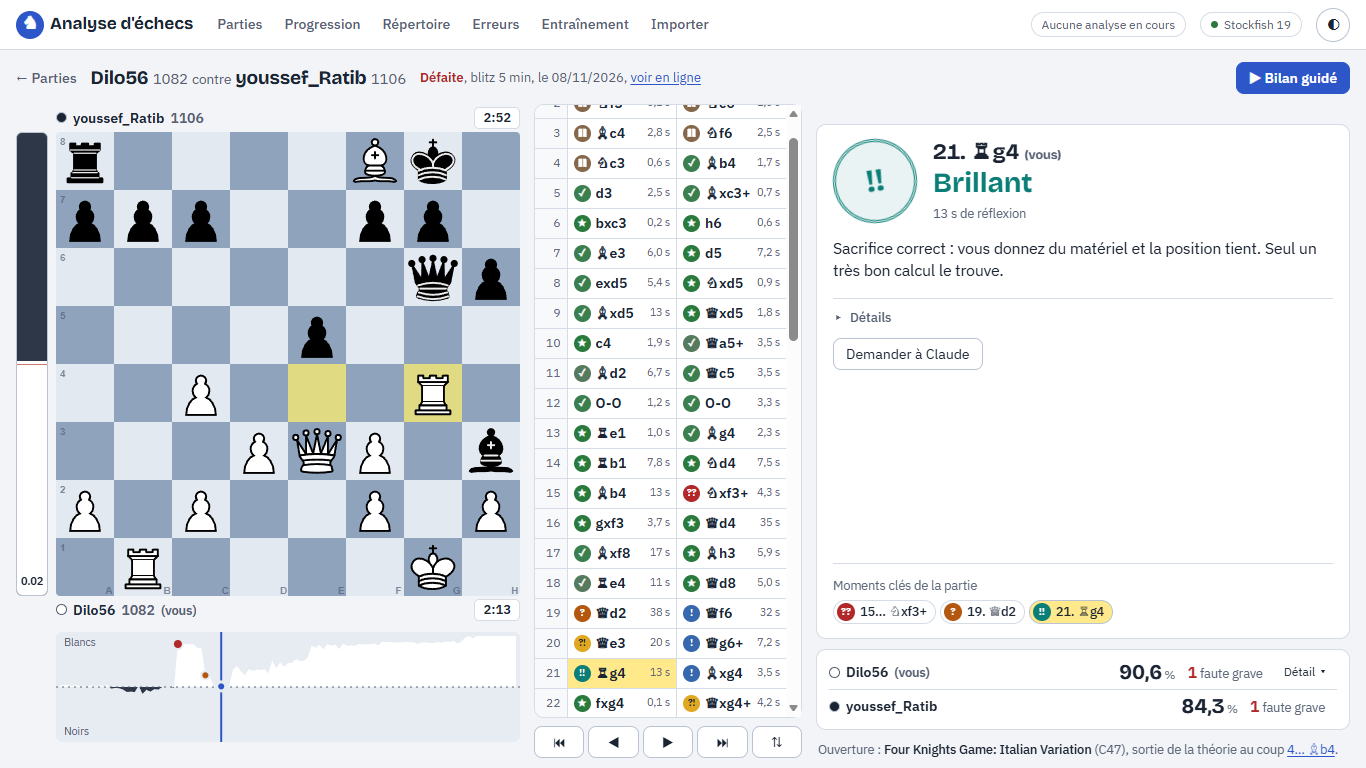
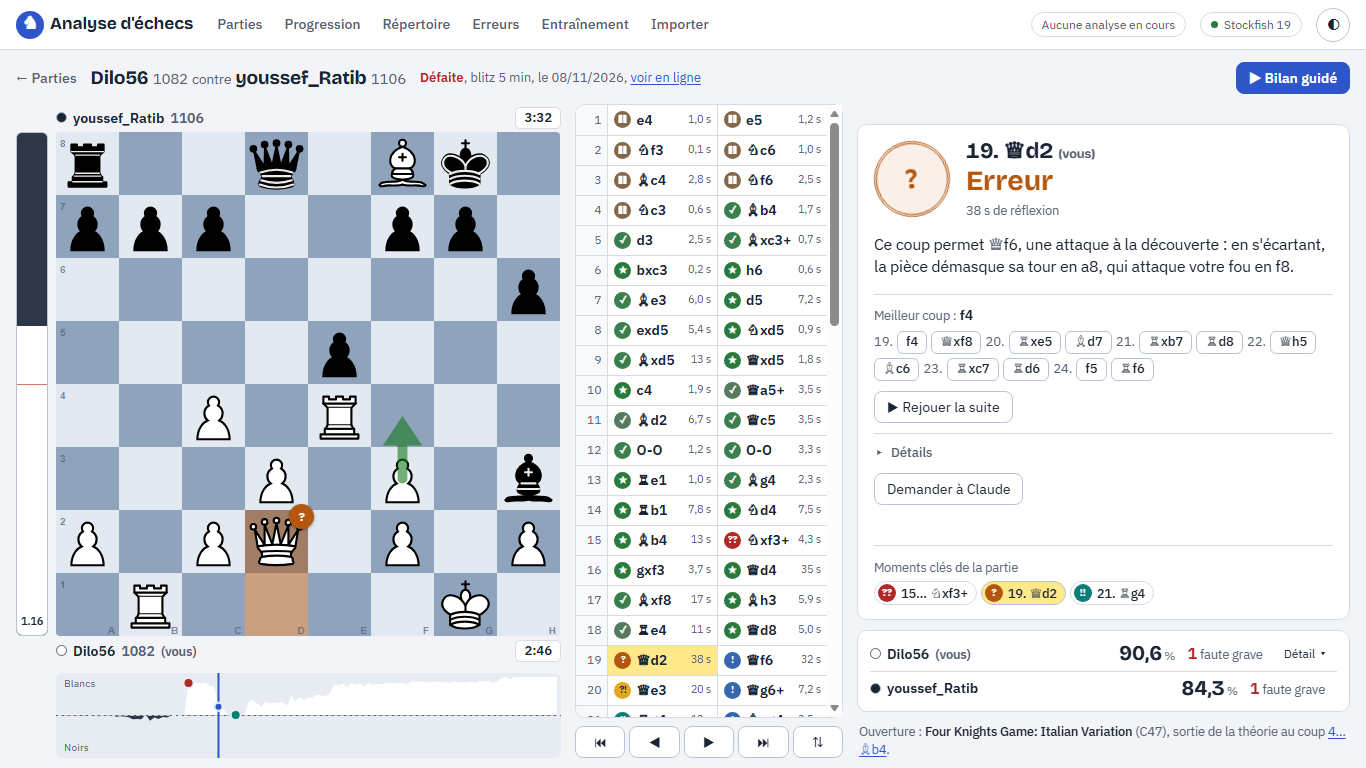
README : pastille du classement, cases teintées, échiquier à la taille de l'écran ; nouvelle capture

diff --git a/README.md b/README.md
@@ -7,7 +7,7 @@ progression : Elo de performance par cadence, précision, erreurs récurrentes, 
 temps et puzzles tirés de vos propres gaffes. Tout reste chez vous ; seuls chess.com, Lichess et les sites de
 téléchargement (Node.js, Stockfish) sont contactés.
 
-![Écran d'analyse d'une partie : échiquier, graphe, coups classés et explication de l'erreur](captures/2-ecran-analyse.png)
+![Écran d'analyse d'une partie : erreur marquée sur l'échiquier (pastille, cases teintées, flèche du meilleur coup), graphe, coups classés et explication en français](captures/2-ecran-analyse.png)
 
 | Mes parties | Progression | Mes erreurs récurrentes |
 |---|---|---|
@@ -142,20 +142,28 @@ Les filtres sont mémorisés.
 
 ### Écran d'analyse
 
-Sur un écran de portable (1366 × 768), tout tient sans faire défiler la page : échiquier, barre d'évaluation,
-feuille de notation, explication du coup et graphe. Seule la feuille de notation défile.
+L'échiquier prend la plus grande taille possible sans jamais dépasser de la fenêtre. Sur un portable (même avec le
+zoom de Windows à 125 ou 150 %) comme sur un grand écran, tout tient sans faire défiler la page : joueurs et pendules,
+échiquier, barre d'évaluation, feuille de notation, explication du coup et graphe. Seule la feuille de notation
+défile. Sur tablette ou téléphone, la page défile, mais les deux joueurs et l'échiquier tiennent toujours ensemble
+à l'écran.
 
 - **Le coup sélectionné** : son classement en grand, comme un **tampon de correction** dans la marge (un « Brillant »
   se voit tout de suite), puis l'explication en une phrase, le meilleur coup et la **suite de Stockfish** à rejouer
   sur l'échiquier (« Rejouer la suite », ou un clic sur un coup de la suite). Les détails techniques (perte de
   chances de gain, précision du coup, évaluation, profondeur de calcul, lignes de Stockfish) sont repliés dans
-  **Détails**. Sur un coup raté, une **flèche verte** montre le meilleur coup sur l'échiquier.
+  **Détails**.
 - **Bilan guidé** : le bouton fait défiler uniquement les **moments clés** de la partie (gaffes, occasions
   manquées, erreurs et coups brillants), un par un, avec leur explication, comme une revue avec un entraîneur.
   `←` / `→` passent d'un moment à l'autre, `Échap` arrête le bilan. Les moments clés sont aussi listés en bas du
   panneau : un clic pour y aller.
 - **Échiquier** orienté de votre côté (bouton ⇅ ou touche `F` pour le retourner) et **barre d'évaluation** large,
   avec la valeur écrite du côté de celui qui mène.
+- **Le coup affiché, sur l'échiquier**, comme sur chess.com : une **pastille** ronde en haut à droite de sa case
+  d'arrivée reprend le symbole et la couleur de son classement (les mêmes que dans la feuille de notation), et ses
+  deux cases sont teintées de cette couleur (vert pour meilleur ou bon, bleu pour très bon, jaune pour imprécision,
+  orange pour erreur, rouge pour gaffe…). Sur une imprécision, une erreur, une occasion manquée ou une gaffe, une
+  **flèche verte** semi-transparente montre le meilleur coup de Stockfish.
 - **Feuille de notation** : chaque coup avec son symbole (`!!` brillant, `!` très bon, `★` meilleur, `✓` excellent /
   bon, livre = théorie, `?!` imprécision, `?` erreur, `✗` occasion manquée, `??` gaffe) et, en discret, le **temps
   passé** sur le coup (calculé à partir des pendules `%clk`).
@@ -172,8 +180,8 @@ feuille de notation, explication du coup et graphe. Seule la feuille de notation
 
 Le bouton ◐ en haut à droite passe de **automatique** (comme le système) à **clair**, puis **sombre**. Le choix est
 mémorisé dans le navigateur. L'interface respecte aussi le réglage « réduire les animations » du système : seules
-les animations qui montrent un changement (coup joué, panneau ouvert, tampon) existent, et elles disparaissent
-alors.
+les animations qui montrent un changement (coup joué, pastille du classement, panneau ouvert, tampon) existent, et
+elles disparaissent alors.
 
 ### Explications en français (par des règles)
 
@@ -223,7 +231,8 @@ Mesuré sur les 246 erreurs, gaffes et occasions manquées des parties analysée
 Jouez n'importe quel coup sur l'échiquier (glisser-déposer ou clic-clic), depuis n'importe quelle position : Stockfish
 l'évalue en direct avec **le même classement** que l'analyse des parties. Un premier avis arrive en moins d'une seconde
 (profondeur 12), puis il est affiné (profondeur 18, quelques secondes). Pendant ce temps, la file d'analyse de fond se
-met en pause toute seule. Le bouton **↩ Revenir à la partie** remet la partie d'origine.
+met en pause toute seule. Une fois évalué, votre coup reçoit sa pastille et sa couleur sur l'échiquier, comme les coups
+de la partie. Le bouton **↩ Revenir à la partie** remet la partie d'origine.
 
 ### Bouton « Demander à Claude »
 
